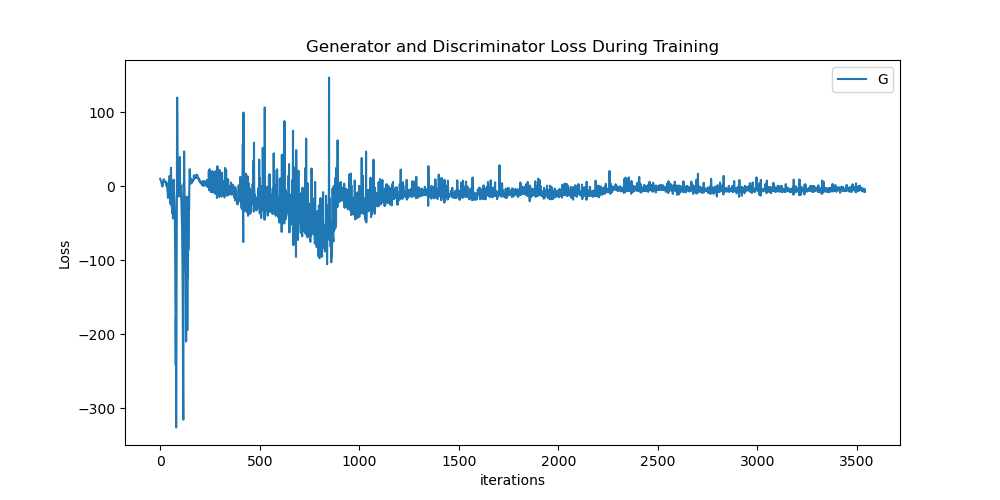
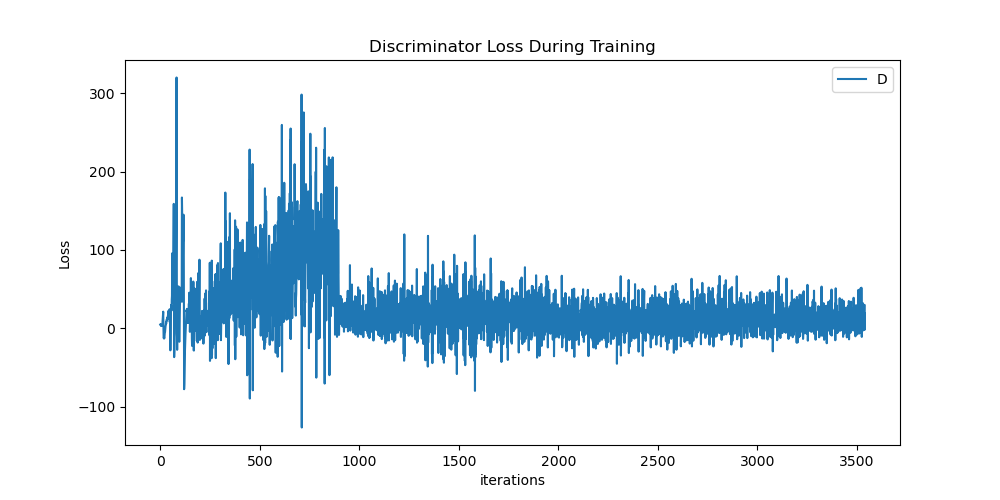
updated training and prediction for model added some graphs for the dsicriminator and generators losses, seems to somewhat converge

diff --git a/recognition/ADNI-Style-GAN2-s4696807/predict.py b/recognition/ADNI-Style-GAN2-s4696807/predict.py
@@ -6,7 +6,6 @@ from torchvision.utils import save_image
 import os
 import matplotlib.pyplot as plt
 
-
 # Function to generate example images using a generator model
 def generate_examples(gen, epoch, n=20):
     # Set the generator model in evaluation mode
@@ -70,14 +69,22 @@ for epoch in range(EPOCHS):
     Total_G_Losses.extend(G_Losses)
     Total_D_Losses.extend(D_Losses)
     
-    # Generate example images for the current epoch
-    generate_examples(gen, epoch)
+    if epoch % 20 == 0:
+        # Generate example images for the current epoch
+        generate_examples(gen, epoch)
     
 plt.figure(figsize=(10,5))
-plt.title("Generator and Discriminator Loss During Training")
-plt.plot(Total_G_Losses,label="G")
-plt.plot(Total_D_Losses, label="D")
+plt.title("Generator Loss During Training")
+plt.plot(Total_G_Losses,label="G", color="blue")
 plt.xlabel("iterations")
 plt.ylabel("Loss")
 plt.legend()
-plt.savefig('model_loss.png')
+plt.savefig('gen_loss.png')
+
+plt.figure(figsize=(10,5))
+plt.title("Discriminator Loss During Training")
+plt.plot(Total_D_Losses, label="D", color="orange")
+plt.xlabel("iterations")
+plt.ylabel("Loss")
+plt.legend()
+plt.savefig('dis_loss.png')

diff --git a/recognition/ADNI-Style-GAN2-s4696807/train.py b/recognition/ADNI-Style-GAN2-s4696807/train.py
@@ -8,7 +8,7 @@ from tqdm import tqdm
 # Define constants and hyperparameters
 DATASET                 = "./OASIS"  # Path to the dataset
 DEVICE                  = "cuda" if torch.cuda.is_available() else "cpu"  # Use GPU if available, otherwise use CPU
-EPOCHS                  = 5  # Number of training epochs
+EPOCHS                  = 100 # Number of training epochs
 LEARNING_RATE           = 1e-3  # Learning rate for optimization
 BATCH_SIZE              = 32  # Batch size for training
 LOG_RESOLUTION          = 7  # Logarithmic resolution used for 128*128 images
